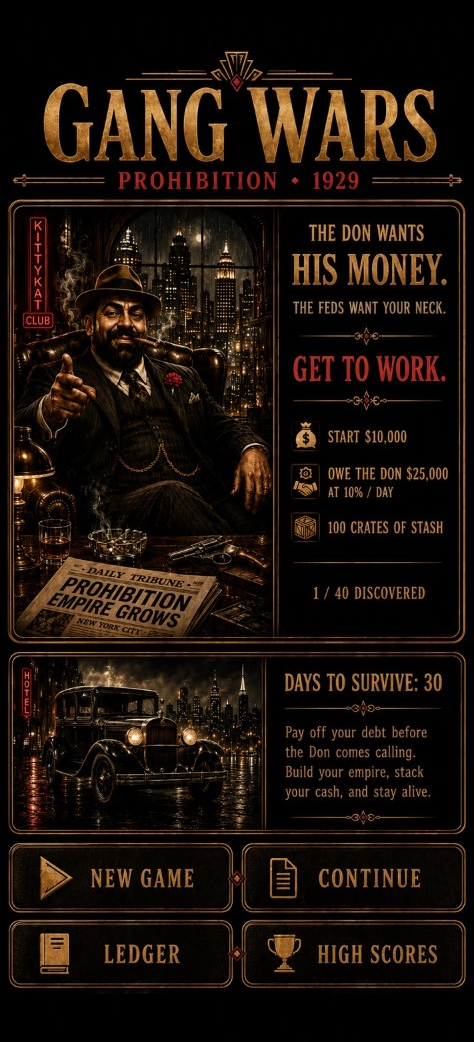
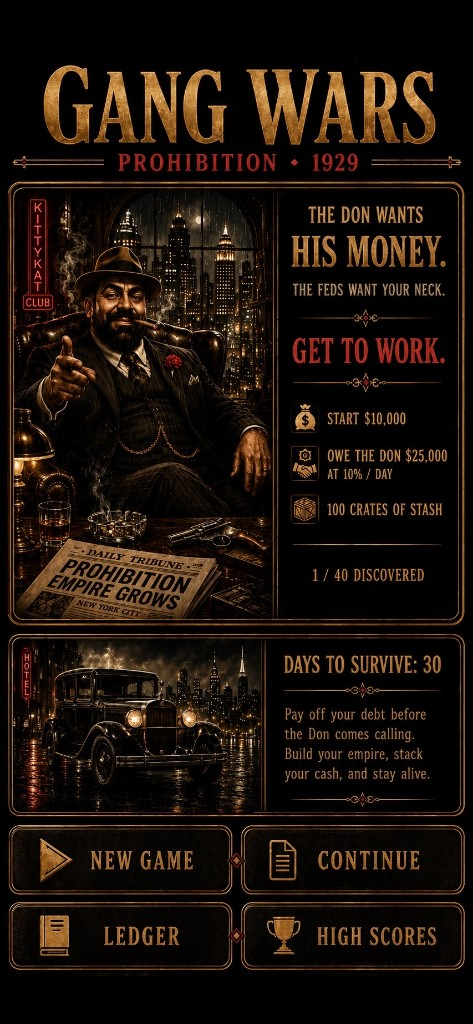
Replace welcome screen artwork and remap title button hit areas. Bump SW cache to v88.

Changed region(s): [[0.0, 0.0312, 1.0, 0.9688]]

diff --git a/gangwars.html b/gangwars.html
@@ -11,7 +11,7 @@
 <link rel="apple-touch-icon" sizes="180x180" href="apple-touch-icon.png?v=3" />
 <link rel="apple-touch-icon" sizes="192x192" href="icon-192.png?v=3" />
 <link rel="icon" type="image/png" sizes="192x192" href="icon-192.png?v=3" />
-<link rel="preload" as="image" href="title-screen.png?v=10" fetchpriority="high" />
+<link rel="preload" as="image" href="title-screen.png?v=11" fetchpriority="high" />
 <title>GANG WARS</title>
 <style>
   :root{
@@ -254,11 +254,11 @@
   .title-hit:active:not(:disabled){background:transparent;}
   .title-hit:focus-visible{outline:2px solid var(--amber);outline-offset:-2px;}
   .title-hit:disabled{cursor:default;pointer-events:none;opacity:0;}
-  /* Title hit rects on 474×1042 canvas; cqw/cqh = title-cover box (inset inside gold borders) */
-  .title-hit-new{left:2.743cqw;top:80.230cqh;width:45.781cqw;height:7.869cqh;}
-  .title-hit-cont{left:52.954cqw;top:80.230cqh;width:44.515cqw;height:7.869cqh;}
-  .title-hit-ledger{left:2.743cqw;top:88.580cqh;width:45.781cqw;height:7.102cqh;}
-  .title-hit-scores{left:52.954cqw;top:88.580cqh;width:44.726cqw;height:7.102cqh;}
+  /* Title hit rects on 473×1024 canvas; cqw/cqh = title-cover box */
+  .title-hit-new{left:2.114cqw;top:77.637cqh;width:47.569cqw;height:11.426cqh;}
+  .title-hit-cont{left:50.317cqw;top:77.637cqh;width:47.569cqw;height:11.426cqh;}
+  .title-hit-ledger{left:2.326cqw;top:86.914cqh;width:47.357cqw;height:7.812cqh;}
+  .title-hit-scores{left:50.317cqw;top:86.914cqh;width:47.569cqw;height:7.812cqh;}
   .audio-mute-btn{font-family:inherit;background:transparent;color:var(--amber);border:1px solid var(--amber);
     padding:2px 7px;font-size:clamp(.62rem,2.8vw,.72rem);letter-spacing:0;cursor:pointer;border-radius:4px;
     line-height:1.2;min-height:0;}
@@ -565,8 +565,8 @@ if (typeof document !== "undefined") {
   let pendingUnlockQueue = [], pendingCompleteQueue = [];
   let ledger = migrateLedger((() => { try { return JSON.parse(localStorage.getItem(LEDGER_KEY)); } catch(e) { return null; } })());
   const money = n => "$"+Math.round(n).toLocaleString("en-US");
-  const TITLE_SCREEN = "title-screen.png?v=10";
-  const TITLE_CANVAS = { w: 474, h: 1042 };
+  const TITLE_SCREEN = "title-screen.png?v=11";
+  const TITLE_CANVAS = { w: 473, h: 1024 };
   function layoutTitleScreen(){
     const cover = document.querySelector(".title-cover");
     if (!cover) return;
@@ -1071,11 +1071,11 @@ if (typeof document !== "undefined") {
     app.innerHTML = `<div class="play title-play">
       <div class="title-screen">
         <div class="title-cover">
-          <img src="${TITLE_SCREEN}" width="474" height="1042" decoding="async" fetchpriority="high"
+          <img src="${TITLE_SCREEN}" width="473" height="1024" decoding="async" fetchpriority="high"
             alt="Gang Wars — Prohibition 1929">
-          <button type="button" class="title-hit title-hit-new" id="new" aria-label="Start"></button>
+          <button type="button" class="title-hit title-hit-new" id="new" aria-label="New Game"></button>
           <button type="button" class="title-hit title-hit-cont" id="cont" aria-label="Continue" ${saved?"":"disabled"}></button>
-          <button type="button" class="title-hit title-hit-ledger" id="ledger" aria-label="Crime Ledger"></button>
+          <button type="button" class="title-hit title-hit-ledger" id="ledger" aria-label="Ledger"></button>
           <button type="button" class="title-hit title-hit-scores" id="scores" aria-label="High Scores"></button>
         </div>
       </div>
@@ -1771,7 +1771,7 @@ if (typeof document !== "undefined") {
 </script>
 <script>
   if ('serviceWorker' in navigator && !/^127\.0\.0\.1$|^localhost$/i.test(location.hostname)) {
-    navigator.serviceWorker.register('./sw.js?v=87').then(reg => {
+    navigator.serviceWorker.register('./sw.js?v=88').then(reg => {
       reg.update();
       reg.addEventListener('updatefound', () => {
         const worker = reg.installing;

diff --git a/sw.js b/sw.js
@@ -1,7 +1,7 @@
 /* Gang Wars — service worker
    Cache-first for app shell; network-first for icons so home-screen art updates. */
 
-const CACHE = 'gangwars-v87';
+const CACHE = 'gangwars-v88';
 const ASSETS = [
   './gangwars.html',
   './engine.js',